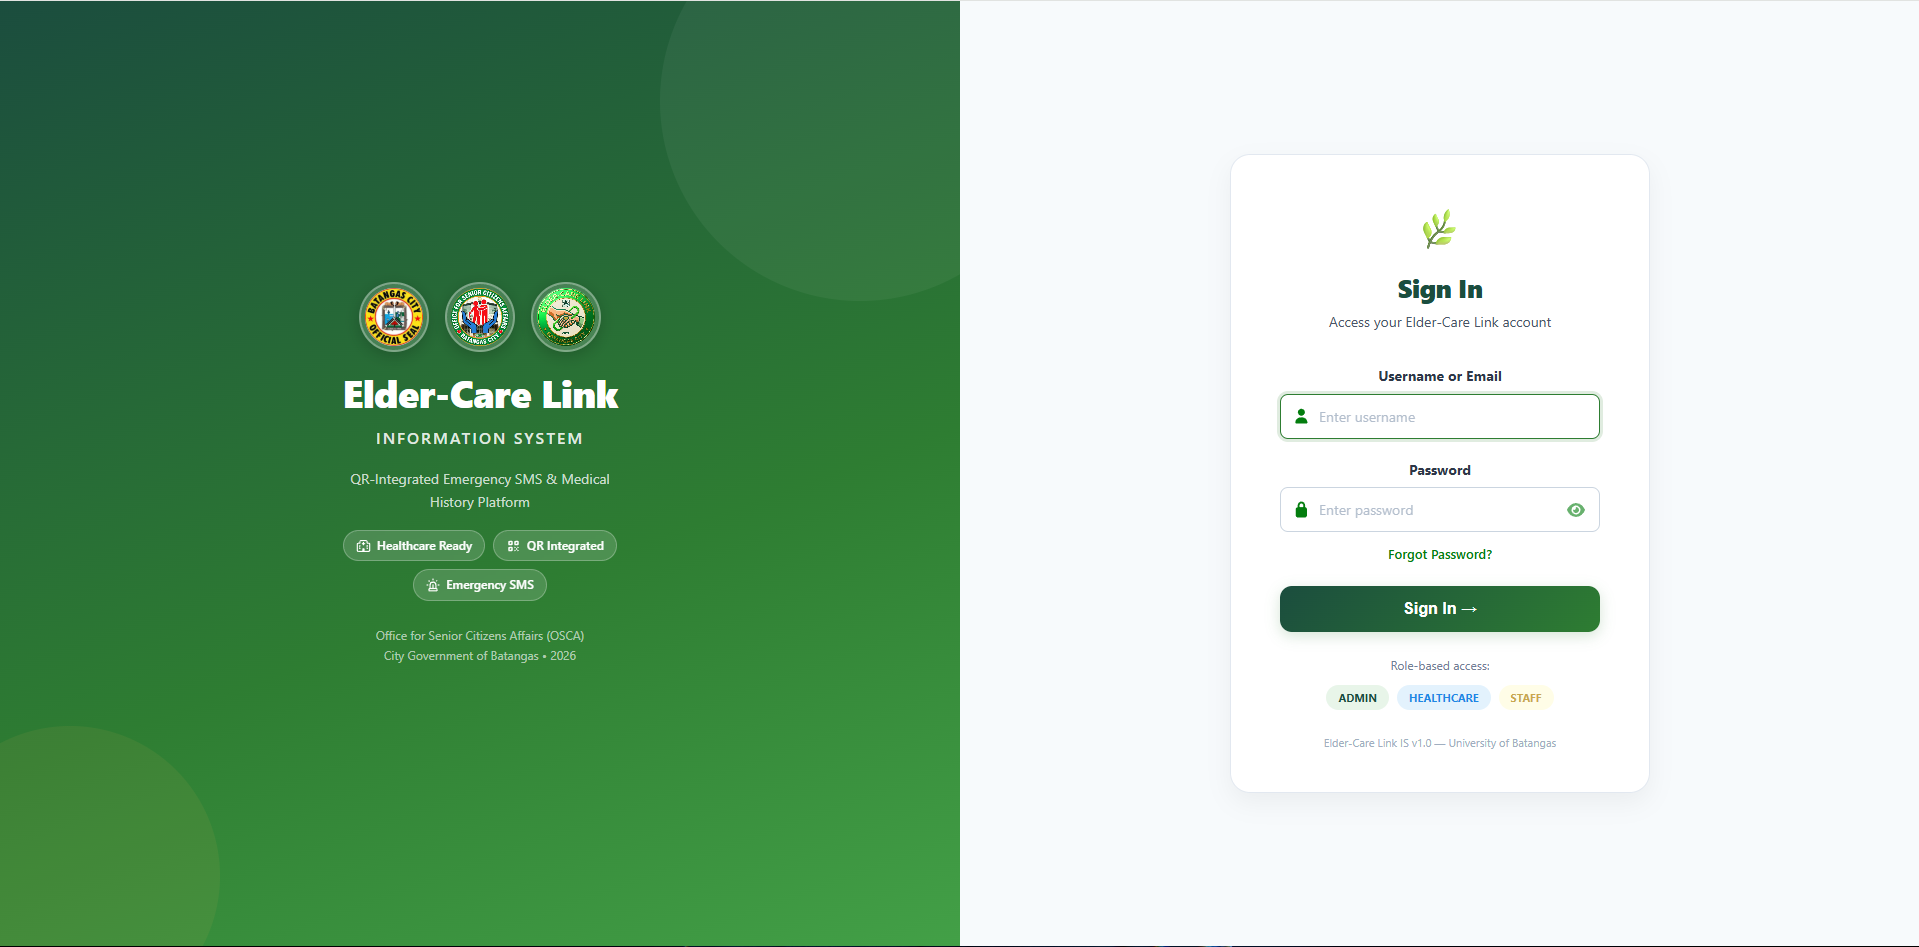
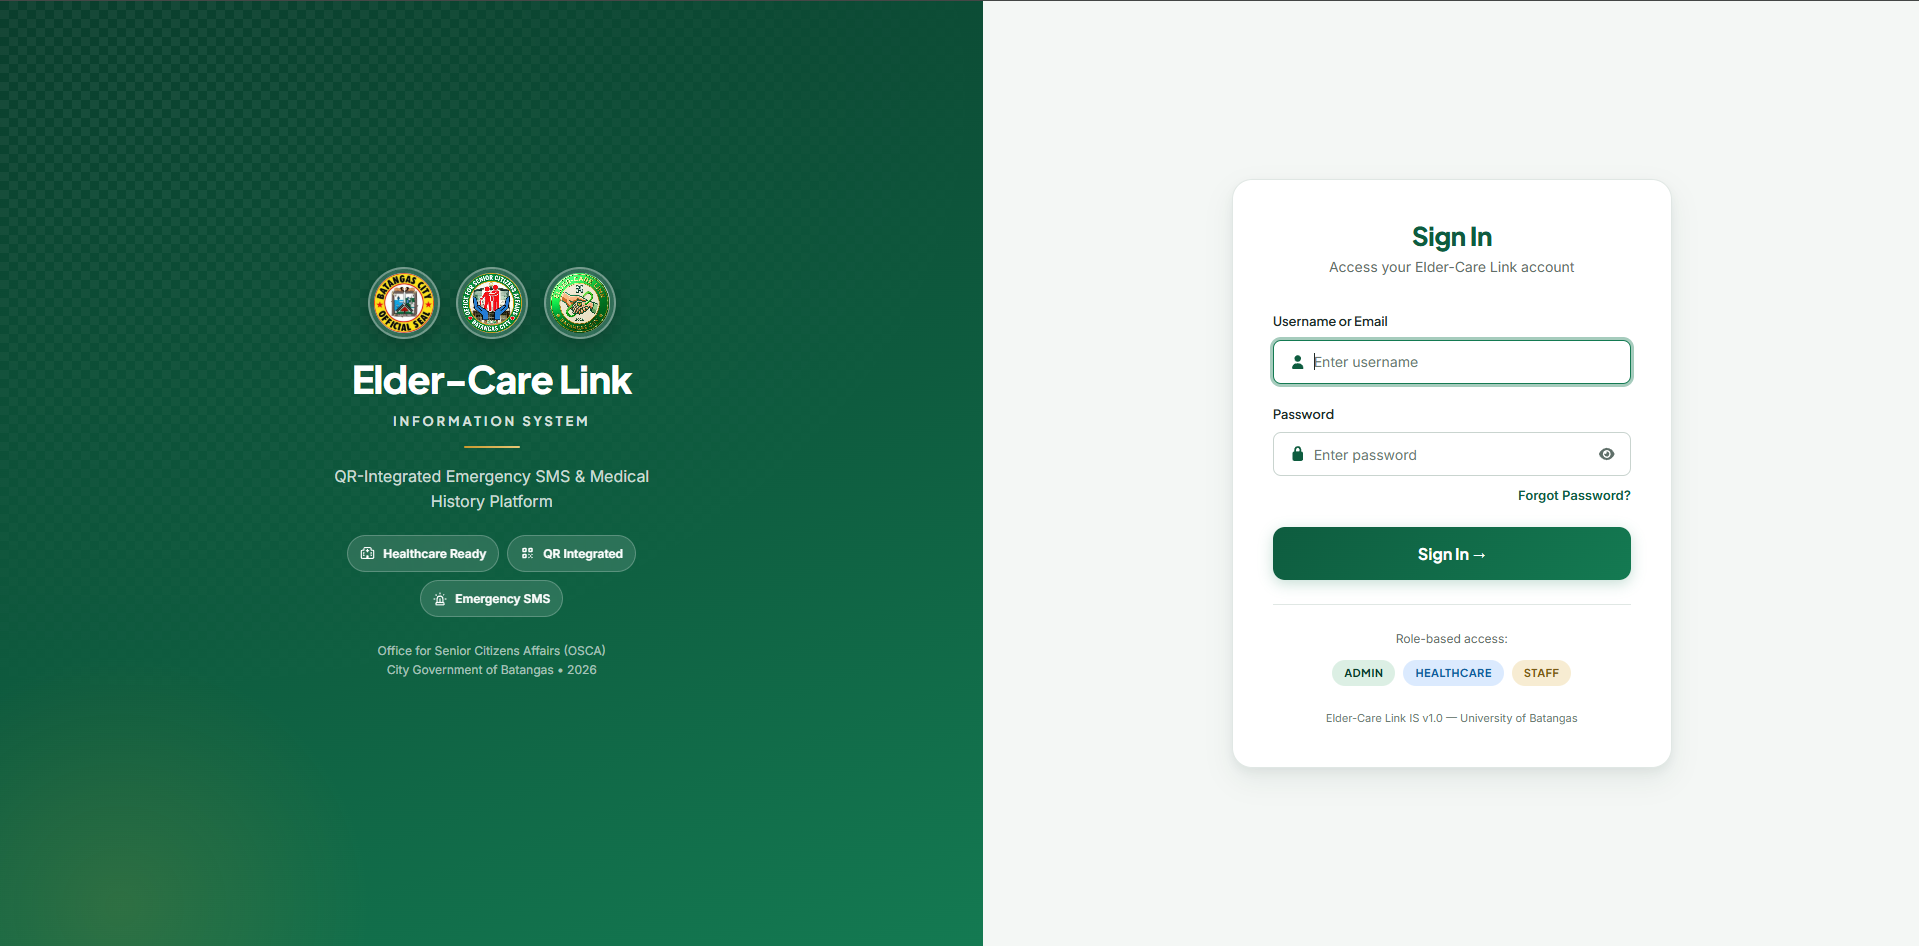
Update contact details, profiles, and Elder-Care screenshots
- Consolidate the two GitHub entries into one account (lrncdlcrz)
- Point Upwork, OnlineJobs.ph and Fiverr at the current profiles
- Change the contact address to laurencedlcrz11@gmail.com; every surface
  reads siteConfig.email, so the footer, contact page, bento copy-button,
  privacy and terms all follow
- Refresh the Elder-Care Link captures from the latest build and add the
  light-mode dashboard as a third case-study image

The JSON-LD sameAs list had drifted out of sync with socialLinks (it
still carried the old alt GitHub, Upwork and Fiverr URLs), so it is now
derived from socialLinks instead of hardcoded.

LinkedIn deliberately left unchanged.

diff --git a/constants/site.ts b/constants/site.ts
@@ -5,7 +5,7 @@ export const siteConfig = {
   description:
     "Aspiring Full Stack Developer and BS Information Technology student building modern, scalable web applications, from design to deployment. Based in Batangas City, Philippines, open for freelance, remote, and internship opportunities.",
   url: "https://laurencedlcrzportfolio.vercel.app",
-  email: "laurenceandrei24@gmail.com",
+  email: "laurencedlcrz11@gmail.com",
   phone: "+63 939-197-8056",
   location: "Batangas City, Philippines",
   university: "University of Batangas",
@@ -42,13 +42,8 @@ export const legalLinks = [
 
 export const socialLinks = [
   {
-    label: "GitHub (Main)",
-    href: "https://github.com/Laurence-Dev11",
-    icon: "github",
-  },
-  {
-    label: "GitHub (Alt)",
-    href: "https://github.com/Laurence-rgb",
+    label: "GitHub",
+    href: "https://github.com/lrncdlcrz",
     icon: "github",
   },
   {
@@ -58,17 +53,17 @@ export const socialLinks = [
   },
   {
     label: "Upwork",
-    href: "https://www.upwork.com/freelancers/~01908eaa4b245174f3",
+    href: "https://www.upwork.com/freelancers/~01d8dd7ee536437bf8?viewMode=1",
     icon: "upwork",
   },
   {
     label: "OnlineJobs.ph",
-    href: "https://v2.onlinejobs.ph/jobseekers/info/4729421",
+    href: "https://v2.onlinejobs.ph/jobseekers/info/5277566",
     icon: "onlinejobs",
   },
   {
     label: "Fiverr",
-    href: "https://www.fiverr.com/laurencetoshiro",
+    href: "https://www.fiverr.com/laurencedev11?public_mode=true",
     icon: "fiverr",
   },
 ] as const;

diff --git a/app/layout.tsx b/app/layout.tsx
@@ -9,7 +9,7 @@ import { BackToTop } from "@/components/shared/back-to-top";
 import { CommandPalette } from "@/components/shared/command-palette";
 import { Navbar } from "@/components/navbar/navbar";
 import { Footer } from "@/components/footer/footer";
-import { siteConfig } from "@/constants/site";
+import { siteConfig, socialLinks } from "@/constants/site";
 import "@/styles/globals.css";
 
 const spaceGrotesk = Space_Grotesk({
@@ -86,12 +86,9 @@ const personJsonLd = {
     "@type": "CollegeOrUniversity",
     name: siteConfig.university,
   },
-  sameAs: [
-    "https://github.com/Laurence-rgb",
-    "https://www.linkedin.com/in/laurence-delacruz-74a55341a/",
-    "https://www.upwork.com/freelancers/~01908eaa4b245174f3",
-    "https://www.fiverr.com/laurencetoshiro",
-  ],
+  // Derived from the shared config rather than hardcoded: this list had
+  // already drifted out of sync with socialLinks once.
+  sameAs: socialLinks.map((s) => s.href),
 };
 
 export default function RootLayout({

diff --git a/data/showcase.ts b/data/showcase.ts
@@ -28,7 +28,7 @@ export const showcaseProjects: ProjectShowcase[] = [
     media: [
       {
         src: "/projects/elder-care-link/dashboard-overview.png",
-        alt: "Elder-Care Link admin dashboard showing registered senior totals, monthly registration chart, and a seniors-by-barangay breakdown",
+        alt: "Elder-Care Link admin dashboard in dark mode, showing registered senior totals, QR scans, active emergencies, a monthly registration chart and a seniors-by-barangay breakdown",
       },
       {
         src: "/projects/elder-care-link/sign-in.png",

diff --git a/data/projects.ts b/data/projects.ts
@@ -77,6 +77,7 @@ export const projects: Project[] = [
     logoImage: "/projects/elder-care-link/logo.png",
     images: [
       "/projects/elder-care-link/dashboard-overview.png",
+      "/projects/elder-care-link/dashboard-light.png",
       "/projects/elder-care-link/sign-in.png",
     ],
     testimonial: {
